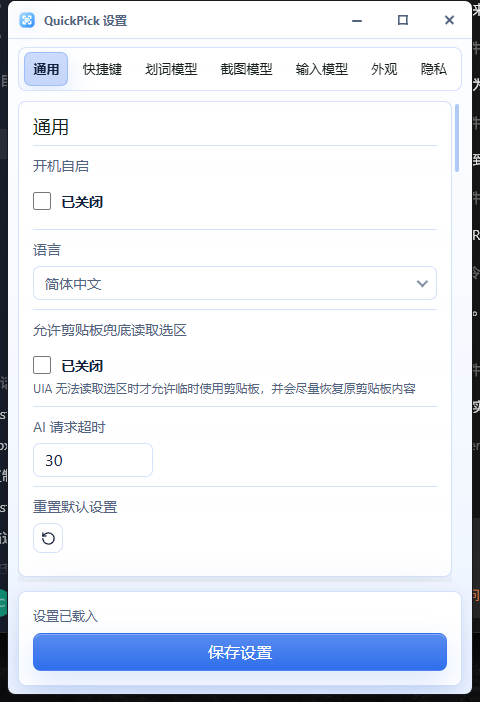
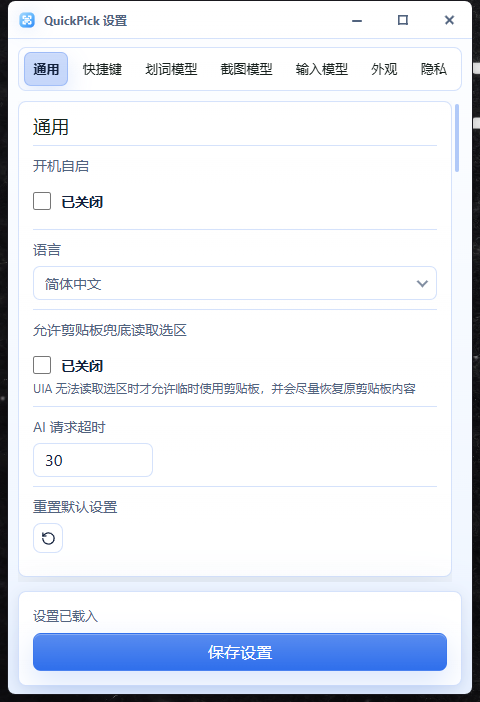
docs: refresh light-theme windows screenshots

diff --git a/README.zh-CN.md b/README.zh-CN.md
@@ -32,39 +32,19 @@ QuickPick 默认坚持本地优先：
 
 ## 应用截图
 
-以下截图来自 Windows 11 下真实运行的 QuickPick 界面。
+以下截图来自 Windows 11 下真实运行的 QuickPick 浅色界面。
 
 ### 设置页
 
-<picture>
-  <source media="(prefers-color-scheme: dark)" srcset="./screenshots/zh-cn/settings-dark.png" />
-  <source media="(prefers-color-scheme: light)" srcset="./screenshots/zh-cn/settings-light.png" />
-  <img alt="QuickPick 设置页" src="./screenshots/zh-cn/settings-light.png" />
-</picture>
+<img alt="QuickPick 设置页" src="./screenshots/zh-cn/settings-light.png" />
 
 ### 划词菜单
 
-<picture>
-  <source media="(prefers-color-scheme: dark)" srcset="./screenshots/zh-cn/selection-dark.png" />
-  <source media="(prefers-color-scheme: light)" srcset="./screenshots/zh-cn/selection-light.png" />
-  <img alt="QuickPick 划词菜单" src="./screenshots/zh-cn/selection-light.png" />
-</picture>
+<img alt="QuickPick 划词菜单" src="./screenshots/zh-cn/selection-light.png" />
 
 ### 输入翻译
 
-<picture>
-  <source media="(prefers-color-scheme: dark)" srcset="./screenshots/zh-cn/input-dark.png" />
-  <source media="(prefers-color-scheme: light)" srcset="./screenshots/zh-cn/input-light.png" />
-  <img alt="QuickPick 输入翻译" src="./screenshots/zh-cn/input-light.png" />
-</picture>
-
-### 区域截图
-
-<picture>
-  <source media="(prefers-color-scheme: dark)" srcset="./screenshots/zh-cn/screenshot-dark.png" />
-  <source media="(prefers-color-scheme: light)" srcset="./screenshots/zh-cn/screenshot-light.png" />
-  <img alt="QuickPick 区域截图" src="./screenshots/zh-cn/screenshot-light.png" />
-</picture>
+<img alt="QuickPick 输入翻译" src="./screenshots/zh-cn/input-light.png" />
 
 ## ✨ 主要功能
 

diff --git a/README.md b/README.md
@@ -32,39 +32,19 @@ Current releases:
 
 ## Screenshots
 
-The screenshots below were captured from the real QuickPick UI on Windows 11.
+The screenshots below were captured from the real QuickPick UI on Windows 11 in light theme.
 
 ### Settings
 
-<picture>
-  <source media="(prefers-color-scheme: dark)" srcset="./screenshots/en/settings-dark.png" />
-  <source media="(prefers-color-scheme: light)" srcset="./screenshots/en/settings-light.png" />
-  <img alt="QuickPick Settings" src="./screenshots/en/settings-light.png" />
-</picture>
+<img alt="QuickPick Settings" src="./screenshots/en/settings-light.png" />
 
 ### Selection Menu
 
-<picture>
-  <source media="(prefers-color-scheme: dark)" srcset="./screenshots/en/selection-dark.png" />
-  <source media="(prefers-color-scheme: light)" srcset="./screenshots/en/selection-light.png" />
-  <img alt="QuickPick Selection Menu" src="./screenshots/en/selection-light.png" />
-</picture>
+<img alt="QuickPick Selection Menu" src="./screenshots/en/selection-light.png" />
 
 ### Input Translation
 
-<picture>
-  <source media="(prefers-color-scheme: dark)" srcset="./screenshots/en/input-dark.png" />
-  <source media="(prefers-color-scheme: light)" srcset="./screenshots/en/input-light.png" />
-  <img alt="QuickPick Input Translation" src="./screenshots/en/input-light.png" />
-</picture>
-
-### Region Screenshot
-
-<picture>
-  <source media="(prefers-color-scheme: dark)" srcset="./screenshots/en/screenshot-dark.png" />
-  <source media="(prefers-color-scheme: light)" srcset="./screenshots/en/screenshot-light.png" />
-  <img alt="QuickPick Region Screenshot" src="./screenshots/en/screenshot-light.png" />
-</picture>
+<img alt="QuickPick Input Translation" src="./screenshots/en/input-light.png" />
 
 ## Features
 
